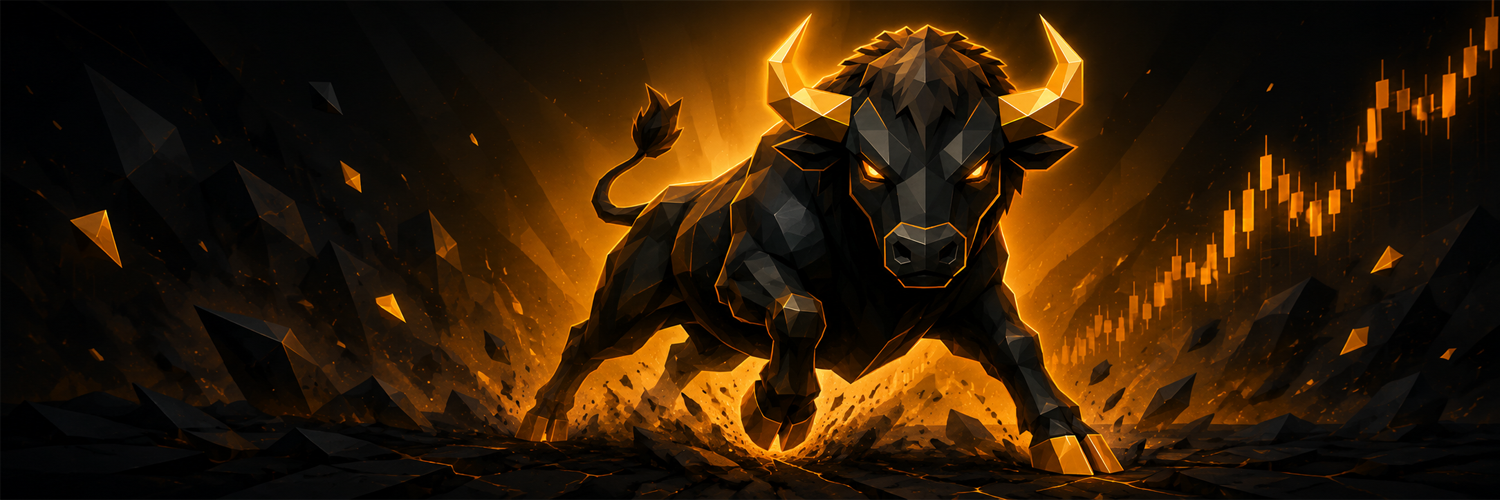
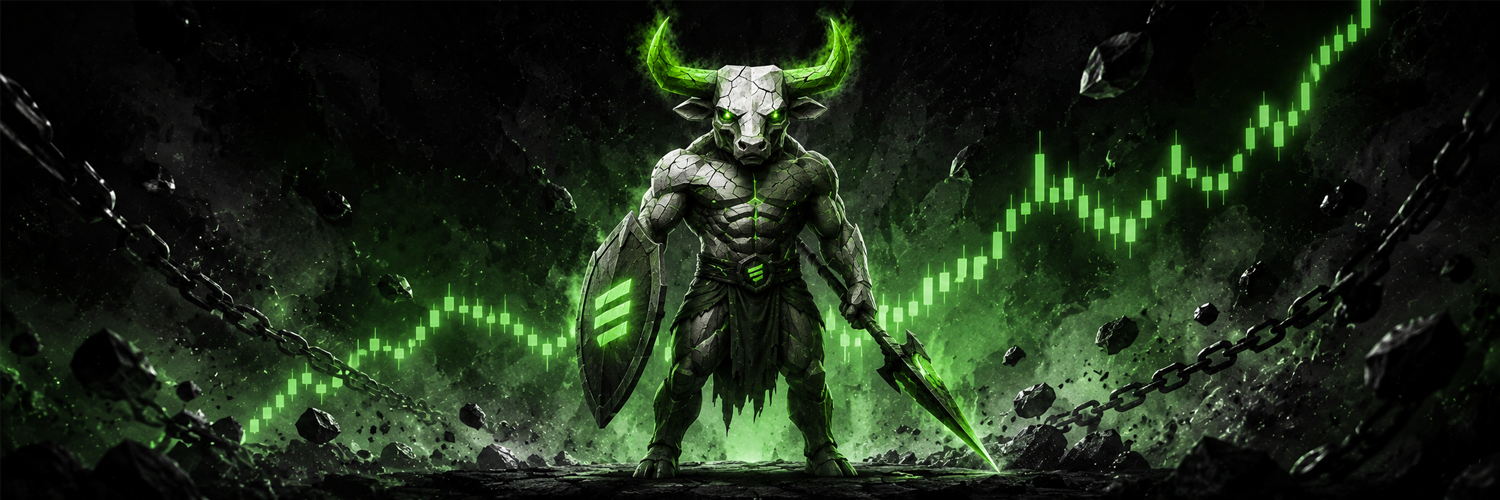
update

diff --git a/index.html b/index.html
@@ -3,8 +3,8 @@
 <head>
   <meta charset="UTF-8" />
   <meta name="viewport" content="width=device-width, initial-scale=1.0" />
-  <title>Mega Bison ($MEGABISON) | Unstoppable Solana Meme</title>
-  <meta name="description" content="Mega Bison charges with unstoppable power, fearless momentum, and wild meme energy across Solana. $MEGABISON" />
+  <title>Max Hyper Bull ($MAXHBULL) | Unstoppable Solana Meme</title>
+  <meta name="description" content="Max Hyper Bull charges with unstoppable power, fearless momentum, and wild meme energy across Solana. $MAXHBULL" />
   <link rel="icon" type="image/png" href="logo.png" />
   <script src="https://cdn.tailwindcss.com"></script>
   <script>
@@ -166,10 +166,10 @@
   <nav id="navbar" class="fixed top-0 left-0 right-0 z-50 transition-all duration-300 glass-dark">
     <div class="max-w-7xl mx-auto px-4 sm:px-6 py-3 flex items-center justify-between">
       <a href="#home" class="flex items-center gap-3 group">
-        <img src="logo.png" alt="Mega Bison Logo" class="w-11 h-11 sm:w-12 sm:h-12 rounded-full ring-2 ring-bison-gold/60 group-hover:ring-bison-gold shadow-glow-sm transition" />
+        <img src="logo.png" alt="Max Hyper Bull Logo" class="w-11 h-11 sm:w-12 sm:h-12 rounded-full ring-2 ring-bison-gold/60 group-hover:ring-bison-gold shadow-glow-sm transition" />
         <div class="leading-tight">
-          <span class="font-display text-xl sm:text-2xl tracking-wide text-bison-gold uppercase">Mega Bison</span>
-          <span class="hidden sm:block text-[10px] tracking-[0.25em] text-bison-gold/70 font-bold">$MEGABISON</span>
+          <span class="font-display text-xl sm:text-2xl tracking-wide text-bison-gold uppercase">Max Hyper Bull</span>
+          <span class="hidden sm:block text-[10px] tracking-[0.25em] text-bison-gold/70 font-bold">$MAXHBULL</span>
         </div>
       </a>
 
@@ -180,13 +180,13 @@
       </div>
 
       <div class="flex items-center gap-2 sm:gap-3">
-        <a href="https://t.me/MegaBison_rh" target="_blank" rel="noopener noreferrer" class="w-10 h-10 rounded-full overflow-hidden ring-2 ring-white/20 hover:ring-bison-gold hover:scale-110 transition shadow-lg" title="Telegram">
+        <a href="https://t.me/MAXHBULLsol" target="_blank" rel="noopener noreferrer" class="w-10 h-10 rounded-full overflow-hidden ring-2 ring-white/20 hover:ring-bison-gold hover:scale-110 transition shadow-lg" title="Telegram">
           <img src="tg.png" alt="Telegram" class="w-full h-full object-cover" />
         </a>
-        <a href="https://x.com/MegaBison_rh" target="_blank" rel="noopener noreferrer" class="w-10 h-10 rounded-full x-icon-bg flex items-center justify-center ring-2 ring-white/20 hover:ring-bison-gold hover:scale-110 transition shadow-lg p-2" title="X / Twitter">
+        <a href="https://x.com/MAXHBULLsol" target="_blank" rel="noopener noreferrer" class="w-10 h-10 rounded-full x-icon-bg flex items-center justify-center ring-2 ring-white/20 hover:ring-bison-gold hover:scale-110 transition shadow-lg p-2" title="X / Twitter">
           <img src="x.png" alt="X / Twitter" class="w-full h-full object-contain" />
         </a>
-        <a href="https://swap.pump.fun/?input=So11111111111111111111111111111111111111112&output=3DHuqH3yb7HAxBTebcMfjT1fMHbfNUAGB7TGYBQkpump" target="_blank" rel="noopener noreferrer" class="hidden sm:inline-flex btn-primary font-display uppercase tracking-wider text-sm px-4 py-2 rounded-full animate-pulse-glow">
+        <a href="https://swap.pump.fun/?input=So11111111111111111111111111111111111111112&output=TBA" target="_blank" rel="noopener noreferrer" class="hidden sm:inline-flex btn-primary font-display uppercase tracking-wider text-sm px-4 py-2 rounded-full animate-pulse-glow">
           Buy Now
         </a>
       </div>
@@ -211,13 +211,13 @@
           </div>
 
           <h1 class="font-display text-5xl sm:text-6xl md:text-7xl lg:text-8xl uppercase leading-[0.9] text-outline text-white mb-3">
-            Mega<br /><span class="text-bison-dark" style="text-shadow: 3px 3px 0 #fff, -1px -1px 0 #0a0a0a, 1px -1px 0 #0a0a0a, -1px 1px 0 #0a0a0a;">Bison</span>
+            MAXH<br /><span class="text-bison-dark" style="text-shadow: 3px 3px 0 #fff, -1px -1px 0 #0a0a0a, 1px -1px 0 #0a0a0a, -1px 1px 0 #0a0a0a;">BULL</span>
           </h1>
 
-          <p class="font-display text-2xl sm:text-3xl text-bison-dark tracking-widest mb-4">$MEGABISON</p>
+          <p class="font-display text-2xl sm:text-3xl text-bison-dark tracking-widest mb-4">$MAXHBULL</p>
 
           <p class="text-base sm:text-lg text-bison-dark/90 font-semibold max-w-xl mx-auto lg:mx-0 leading-relaxed mb-8">
-            Mega Bison charges with unstoppable power, fearless momentum, and wild meme energy across Solana.
+            Max Hyper Bull charges with unstoppable power, fearless momentum, and wild meme energy across Solana.
           </p>
 
           <!-- CA Copy -->
@@ -228,7 +228,7 @@
             </div>
             <div class="flex flex-col sm:flex-row items-stretch sm:items-center gap-3">
               <code id="ca-address" class="ca-box flex-1 text-white text-xs sm:text-sm break-all bg-black/40 px-3 py-2.5 rounded-xl border border-bison-gold/20">
-                3DHuqH3yb7HAxBTebcMfjT1fMHbfNUAGB7TGYBQkpump
+                TBA
               </code>
               <button type="button" onclick="copyCA()" class="btn-primary font-bold uppercase text-sm px-5 py-2.5 rounded-xl whitespace-nowrap flex items-center justify-center gap-2">
                 <svg xmlns="http://www.w3.org/2000/svg" class="w-4 h-4" fill="none" viewBox="0 0 24 24" stroke="currentColor" stroke-width="2">
@@ -241,10 +241,10 @@
 
           <!-- CTA Buttons -->
           <div class="flex flex-col sm:flex-row gap-3 sm:gap-4 justify-center lg:justify-start">
-            <a href="https://swap.pump.fun/?input=So11111111111111111111111111111111111111112&output=3DHuqH3yb7HAxBTebcMfjT1fMHbfNUAGB7TGYBQkpump" target="_blank" rel="noopener noreferrer" class="btn-primary font-display uppercase tracking-wider text-lg px-8 py-4 rounded-2xl shadow-card flex items-center justify-center gap-2 animate-pulse-glow">
+            <a href="https://swap.pump.fun/?input=So11111111111111111111111111111111111111112&output=TBA" target="_blank" rel="noopener noreferrer" class="btn-primary font-display uppercase tracking-wider text-lg px-8 py-4 rounded-2xl shadow-card flex items-center justify-center gap-2 animate-pulse-glow">
               <span class="inline-block animate-charge">🐂</span> Buy Now
             </a>
-            <a href="https://dexscreener.com/solana/3DHuqH3yb7HAxBTebcMfjT1fMHbfNUAGB7TGYBQkpump" target="_blank" rel="noopener noreferrer" class="btn-secondary font-display uppercase tracking-wider text-lg px-8 py-4 rounded-2xl shadow-card flex items-center justify-center gap-2">
+            <a href="https://dexscreener.com/solana/TBA" target="_blank" rel="noopener noreferrer" class="btn-secondary font-display uppercase tracking-wider text-lg px-8 py-4 rounded-2xl shadow-card flex items-center justify-center gap-2">
               <svg xmlns="http://www.w3.org/2000/svg" class="w-5 h-5" fill="none" viewBox="0 0 24 24" stroke="currentColor" stroke-width="2">
                 <path stroke-linecap="round" stroke-linejoin="round" d="M13 7h8m0 0v8m0-8l-8 8-4-4-6 6" />
               </svg>
@@ -257,10 +257,10 @@
         <div class="order-1 lg:order-2 flex flex-col items-center">
           <div class="relative animate-float">
             <div class="absolute inset-0 blur-3xl bg-bison-gold/50 rounded-full scale-90"></div>
-            <img src="logo.png" alt="Mega Bison" class="relative w-56 h-56 sm:w-72 sm:h-72 md:w-80 md:h-80 rounded-full ring-4 ring-bison-dark shadow-glow object-cover" />
+            <img src="logo.png" alt="Max Hyper Bull" class="relative w-56 h-56 sm:w-72 sm:h-72 md:w-80 md:h-80 rounded-full ring-4 ring-bison-dark shadow-glow object-cover" />
           </div>
           <div class="mt-6 w-full max-w-md rounded-2xl overflow-hidden shadow-card ring-2 ring-bison-dark/40">
-            <img src="banner.png" alt="Mega Bison charging" class="w-full h-auto object-cover" />
+            <img src="banner.png" alt="Max Hyper Bull charging" class="w-full h-auto object-cover" />
           </div>
         </div>
       </div>
@@ -282,7 +282,7 @@
           <div class="text-4xl mb-4">⚡</div>
           <h3 class="font-display text-2xl text-bison-gold uppercase mb-3">Unstoppable Power</h3>
           <p class="text-white/75 text-sm leading-relaxed">
-            Once Mega Bison starts the stampede, nothing stands in the way. Pure Solana force, zero hesitation.
+            Once Max Hyper Bull starts the stampede, nothing stands in the way. Pure Solana force, zero hesitation.
           </p>
         </div>
         <div class="glass-dark rounded-3xl p-7 shadow-card text-center group hover:scale-[1.02] transition duration-300">
@@ -296,7 +296,7 @@
           <div class="text-4xl mb-4">💀</div>
           <h3 class="font-display text-2xl text-bison-gold uppercase mb-3">Wild Meme Energy</h3>
           <p class="text-white/75 text-sm leading-relaxed">
-            Born for the timeline. Built for the culture. $MEGABISON is raw meme power unleashed on Solana.
+            Born for the timeline. Built for the culture. $MAXHBULL is raw meme power unleashed on Solana.
           </p>
         </div>
       </div>
@@ -304,9 +304,9 @@
       <div class="mt-10 glass-dark rounded-3xl p-8 sm:p-10 shadow-card text-center max-w-3xl mx-auto">
         <img src="logo.png" alt="" class="w-16 h-16 rounded-full mx-auto mb-5 ring-2 ring-bison-gold/50" />
         <p class="text-lg sm:text-xl text-white/90 font-medium leading-relaxed italic">
-          “Mega Bison charges with unstoppable power, fearless momentum, and wild meme energy across Solana.”
+          “Max Hyper Bull charges with unstoppable power, fearless momentum, and wild meme energy across Solana.”
         </p>
-        <p class="mt-4 font-display text-bison-gold text-xl tracking-wider">— $MEGABISON</p>
+        <p class="mt-4 font-display text-bison-gold text-xl tracking-wider">— $MAXHBULL</p>
       </div>
     </div>
   </section>
@@ -319,7 +319,7 @@
       <div class="text-center mb-12">
         <h2 class="font-display text-4xl sm:text-5xl md:text-6xl uppercase text-outline text-white mb-3">How to Buy</h2>
         <p class="text-bison-dark font-bold text-base sm:text-lg max-w-xl mx-auto">
-          Grab $MEGABISON with SOL in 4 simple steps. Join the stampede.
+          Grab $MAXHBULL with SOL in 4 simple steps. Join the stampede.
         </p>
       </div>
 
@@ -350,7 +350,7 @@
           <div class="w-12 h-12 rounded-2xl bg-bison-gold text-bison-dark font-display text-xl flex items-center justify-center mb-5 shadow-glow-sm">3</div>
           <h3 class="font-display text-xl text-bison-gold uppercase mb-3">Open the Swap</h3>
           <p class="text-white/70 text-sm leading-relaxed">
-            Hit <strong class="text-white">Buy Now</strong> to open Pump.fun swap, or paste the $MEGABISON CA into your wallet’s swap.
+            Hit <strong class="text-white">Buy Now</strong> to open Pump.fun swap, or paste the $MAXHBULL CA into your wallet’s swap.
           </p>
         </div>
 
@@ -358,16 +358,16 @@
         <div class="step-card rounded-3xl p-6 sm:p-7 relative overflow-hidden">
           <div class="absolute top-3 right-4 font-display text-6xl text-bison-gold/10 select-none">04</div>
           <div class="w-12 h-12 rounded-2xl bg-bison-gold text-bison-dark font-display text-xl flex items-center justify-center mb-5 shadow-glow-sm">4</div>
-          <h3 class="font-display text-xl text-bison-gold uppercase mb-3">Swap SOL → $MEGABISON</h3>
+          <h3 class="font-display text-xl text-bison-gold uppercase mb-3">Swap SOL → $MAXHBULL</h3>
           <p class="text-white/70 text-sm leading-relaxed">
-            Select SOL as input, $MEGABISON as output, confirm the swap — and join the Mega Bison herd.
+            Select SOL as input, $MAXHBULL as output, confirm the swap — and join the Max Hyper Bull herd.
           </p>
         </div>
       </div>
 
       <div class="mt-10 flex flex-col sm:flex-row gap-4 justify-center items-center">
-        <a href="https://swap.pump.fun/?input=So11111111111111111111111111111111111111112&output=3DHuqH3yb7HAxBTebcMfjT1fMHbfNUAGB7TGYBQkpump" target="_blank" rel="noopener noreferrer" class="btn-primary font-display uppercase tracking-wider text-lg px-10 py-4 rounded-2xl shadow-card w-full sm:w-auto text-center animate-pulse-glow">
-          🐂 Buy $MEGABISON Now
+        <a href="https://swap.pump.fun/?input=So11111111111111111111111111111111111111112&output=TBA" target="_blank" rel="noopener noreferrer" class="btn-primary font-display uppercase tracking-wider text-lg px-10 py-4 rounded-2xl shadow-card w-full sm:w-auto text-center animate-pulse-glow">
+          🐂 Buy $MAXHBULL Now
         </a>
         <button type="button" onclick="copyCA()" class="btn-secondary font-display uppercase tracking-wider text-lg px-10 py-4 rounded-2xl shadow-card w-full sm:w-auto">
           Copy CA
@@ -390,8 +390,8 @@
 
       <div class="glass-dark rounded-3xl p-3 sm:p-4 shadow-card overflow-hidden">
         <div class="flex flex-wrap items-center justify-between gap-3 mb-3 px-2">
-          <span class="text-bison-gold font-display text-lg uppercase tracking-wider">$MEGABISON / SOL</span>
-          <a href="https://dexscreener.com/solana/3DHuqH3yb7HAxBTebcMfjT1fMHbfNUAGB7TGYBQkpump" target="_blank" rel="noopener noreferrer" class="text-xs sm:text-sm font-bold text-white/70 hover:text-bison-gold transition uppercase tracking-wider flex items-center gap-1">
+          <span class="text-bison-gold font-display text-lg uppercase tracking-wider">$MAXHBULL / SOL</span>
+          <a href="https://dexscreener.com/solana/TBA" target="_blank" rel="noopener noreferrer" class="text-xs sm:text-sm font-bold text-white/70 hover:text-bison-gold transition uppercase tracking-wider flex items-center gap-1">
             Open DexScreener
             <svg xmlns="http://www.w3.org/2000/svg" class="w-4 h-4" fill="none" viewBox="0 0 24 24" stroke="currentColor" stroke-width="2">
               <path stroke-linecap="round" stroke-linejoin="round" d="M10 6H6a2 2 0 00-2 2v10a2 2 0 002 2h10a2 2 0 002-2v-4M14 4h6m0 0v6m0-6L10 14" />
@@ -401,8 +401,8 @@
         <div class="rounded-2xl overflow-hidden bg-black aspect-[16/10] min-h-[320px] sm:min-h-[480px]">
           <iframe
             id="dexscreener-embed"
-            src="https://dexscreener.com/solana/3DHuqH3yb7HAxBTebcMfjT1fMHbfNUAGB7TGYBQkpump?embed=1&theme=dark&trades=0&info=0"
-            title="Mega Bison DexScreener Chart"
+            src="https://dexscreener.com/solana/TBA?embed=1&theme=dark&trades=0&info=0"
+            title="Max Hyper Bull DexScreener Chart"
             class="w-full h-full min-h-[320px] sm:min-h-[480px] border-0"
             allow="clipboard-write"
             loading="lazy"
@@ -411,10 +411,10 @@
       </div>
 
       <div class="mt-8 flex flex-wrap justify-center gap-4">
-        <a href="https://swap.pump.fun/?input=So11111111111111111111111111111111111111112&output=3DHuqH3yb7HAxBTebcMfjT1fMHbfNUAGB7TGYBQkpump" target="_blank" rel="noopener noreferrer" class="btn-primary font-display uppercase tracking-wider px-8 py-3.5 rounded-2xl shadow-card">
+        <a href="https://swap.pump.fun/?input=So11111111111111111111111111111111111111112&output=TBA" target="_blank" rel="noopener noreferrer" class="btn-primary font-display uppercase tracking-wider px-8 py-3.5 rounded-2xl shadow-card">
           Buy Now
         </a>
-        <a href="https://dexscreener.com/solana/3DHuqH3yb7HAxBTebcMfjT1fMHbfNUAGB7TGYBQkpump" target="_blank" rel="noopener noreferrer" class="btn-secondary font-display uppercase tracking-wider px-8 py-3.5 rounded-2xl shadow-card">
+        <a href="https://dexscreener.com/solana/TBA" target="_blank" rel="noopener noreferrer" class="btn-secondary font-display uppercase tracking-wider px-8 py-3.5 rounded-2xl shadow-card">
           Full Chart
         </a>
       </div>
@@ -432,14 +432,14 @@
         <img src="logo.png" alt="" class="w-20 h-20 rounded-full mx-auto mb-6 ring-4 ring-bison-gold/40 shadow-glow animate-float" />
         <h2 class="font-display text-3xl sm:text-5xl uppercase text-bison-gold mb-4">Join the Herd</h2>
         <p class="text-white/80 max-w-lg mx-auto mb-8 leading-relaxed">
-          Connect with Mega Bison warriors. Memes, alpha, and stampede energy — all on Telegram & X.
+          Connect with Max Hyper Bull warriors. Memes, alpha, and stampede energy — all on Telegram & X.
         </p>
         <div class="flex flex-wrap justify-center gap-4">
-          <a href="https://t.me/MegaBison_rh" target="_blank" rel="noopener noreferrer" class="inline-flex items-center gap-3 bg-[#229ED9] hover:bg-[#1a8bc2] text-white font-display uppercase tracking-wider px-6 py-3.5 rounded-2xl transition shadow-lg hover:scale-105">
+          <a href="https://t.me/MAXHBULLsol" target="_blank" rel="noopener noreferrer" class="inline-flex items-center gap-3 bg-[#229ED9] hover:bg-[#1a8bc2] text-white font-display uppercase tracking-wider px-6 py-3.5 rounded-2xl transition shadow-lg hover:scale-105">
             <img src="tg.png" alt="" class="w-8 h-8 rounded-full" />
             Telegram
           </a>
-          <a href="https://x.com/MegaBison_rh" target="_blank" rel="noopener noreferrer" class="inline-flex items-center gap-3 x-icon-bg hover:bg-zinc-900 text-white font-display uppercase tracking-wider px-6 py-3.5 rounded-2xl transition shadow-lg hover:scale-105 border border-white/10">
+          <a href="https://x.com/MAXHBULLsol" target="_blank" rel="noopener noreferrer" class="inline-flex items-center gap-3 x-icon-bg hover:bg-zinc-900 text-white font-display uppercase tracking-wider px-6 py-3.5 rounded-2xl transition shadow-lg hover:scale-105 border border-white/10">
             <span class="w-8 h-8 rounded-full x-icon-bg flex items-center justify-center p-1.5 border border-white/20">
               <img src="x.png" alt="" class="w-full h-full object-contain" />
             </span>
@@ -455,24 +455,24 @@
     <div class="max-w-7xl mx-auto px-4 sm:px-6 py-10">
       <div class="flex flex-col md:flex-row items-center justify-between gap-6">
         <div class="flex items-center gap-3">
-          <img src="logo.png" alt="Mega Bison" class="w-12 h-12 rounded-full ring-2 ring-bison-gold/50" />
+          <img src="logo.png" alt="Max Hyper Bull" class="w-12 h-12 rounded-full ring-2 ring-bison-gold/50" />
           <div>
-            <p class="font-display text-xl text-bison-gold uppercase tracking-wide">Mega Bison</p>
-            <p class="text-xs text-white/50 font-bold tracking-widest">$MEGABISON · SOLANA</p>
+            <p class="font-display text-xl text-bison-gold uppercase tracking-wide">Max Hyper Bull</p>
+            <p class="text-xs text-white/50 font-bold tracking-widest">$MAXHBULL · SOLANA</p>
           </div>
         </div>
 
         <div class="flex items-center gap-3">
-          <a href="https://t.me/MegaBison_rh" target="_blank" rel="noopener noreferrer" class="w-11 h-11 rounded-full overflow-hidden ring-2 ring-white/10 hover:ring-bison-gold hover:scale-110 transition" title="Telegram">
+          <a href="https://t.me/MAXHBULLsol" target="_blank" rel="noopener noreferrer" class="w-11 h-11 rounded-full overflow-hidden ring-2 ring-white/10 hover:ring-bison-gold hover:scale-110 transition" title="Telegram">
             <img src="tg.png" alt="Telegram" class="w-full h-full object-cover" />
           </a>
-          <a href="https://x.com/MegaBison_rh" target="_blank" rel="noopener noreferrer" class="w-11 h-11 rounded-full x-icon-bg flex items-center justify-center ring-2 ring-white/10 hover:ring-bison-gold hover:scale-110 transition p-2.5" title="X / Twitter">
+          <a href="https://x.com/MAXHBULLsol" target="_blank" rel="noopener noreferrer" class="w-11 h-11 rounded-full x-icon-bg flex items-center justify-center ring-2 ring-white/10 hover:ring-bison-gold hover:scale-110 transition p-2.5" title="X / Twitter">
             <img src="x.png" alt="X" class="w-full h-full object-contain" />
           </a>
-          <a href="https://dexscreener.com/solana/3DHuqH3yb7HAxBTebcMfjT1fMHbfNUAGB7TGYBQkpump" target="_blank" rel="noopener noreferrer" class="text-xs font-bold uppercase tracking-wider text-white/60 hover:text-bison-gold transition px-3">
+          <a href="https://dexscreener.com/solana/TBA" target="_blank" rel="noopener noreferrer" class="text-xs font-bold uppercase tracking-wider text-white/60 hover:text-bison-gold transition px-3">
             Chart
           </a>
-          <a href="https://swap.pump.fun/?input=So11111111111111111111111111111111111111112&output=3DHuqH3yb7HAxBTebcMfjT1fMHbfNUAGB7TGYBQkpump" target="_blank" rel="noopener noreferrer" class="text-xs font-bold uppercase tracking-wider text-bison-gold hover:text-bison-glow transition px-3">
+          <a href="https://swap.pump.fun/?input=So11111111111111111111111111111111111111112&output=TBA" target="_blank" rel="noopener noreferrer" class="text-xs font-bold uppercase tracking-wider text-bison-gold hover:text-bison-glow transition px-3">
             Buy
           </a>
         </div>
@@ -480,17 +480,17 @@
 
       <div class="mt-8 pt-6 border-t border-white/10 text-center">
         <p class="text-white/40 text-xs sm:text-sm max-w-2xl mx-auto leading-relaxed">
-          $MEGABISON is a meme coin with no intrinsic value or expectation of financial return.
+          $MAXHBULL is a meme coin with no intrinsic value or expectation of financial return.
           Cryptocurrency trading involves risk. DYOR. Not financial advice.
         </p>
-        <p class="mt-3 text-white/30 text-xs">© 2026 Mega Bison · All rights reserved</p>
+        <p class="mt-3 text-white/30 text-xs">© 2026 Max Hyper Bull · All rights reserved</p>
       </div>
     </div>
   </footer>
 
   <script>
-    // Contract address — replace 3DHuqH3yb7HAxBTebcMfjT1fMHbfNUAGB7TGYBQkpump when live
-    const CONTRACT_ADDRESS = '3DHuqH3yb7HAxBTebcMfjT1fMHbfNUAGB7TGYBQkpump';
+    // Contract address — replace TBA when live
+    const CONTRACT_ADDRESS = 'TBA';
 
     function copyCA() {
       const text = CONTRACT_ADDRESS;